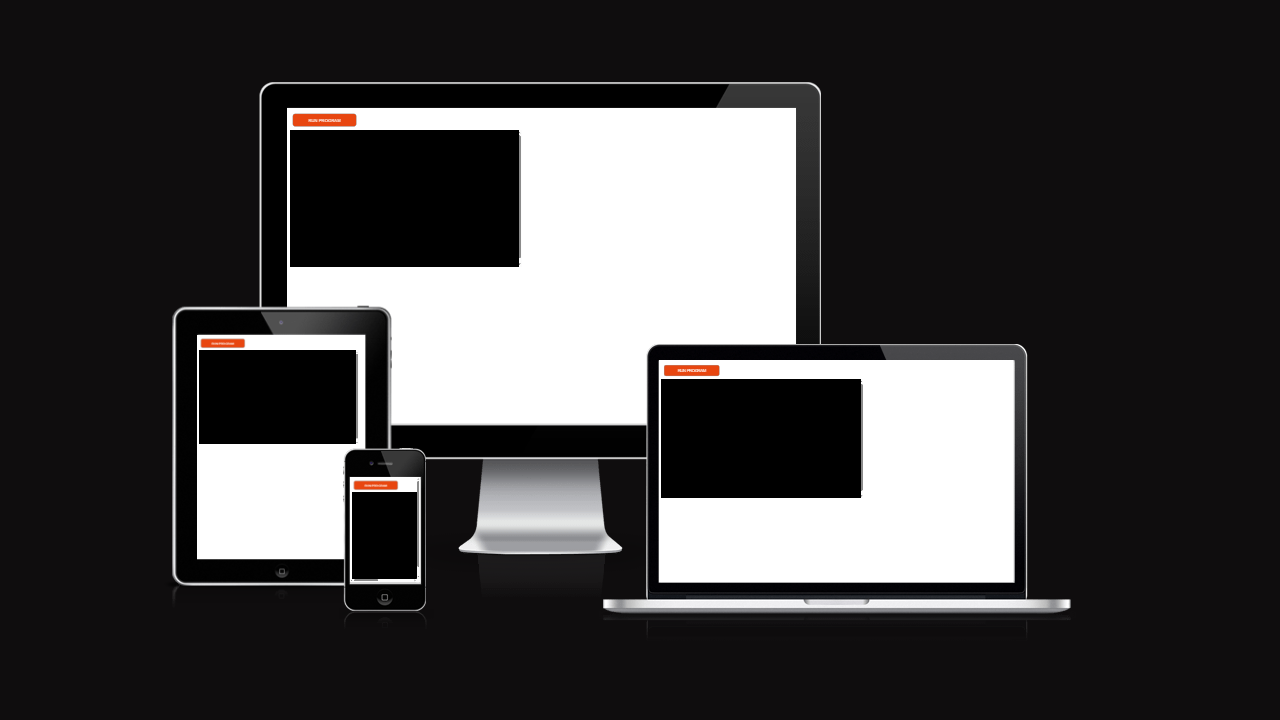
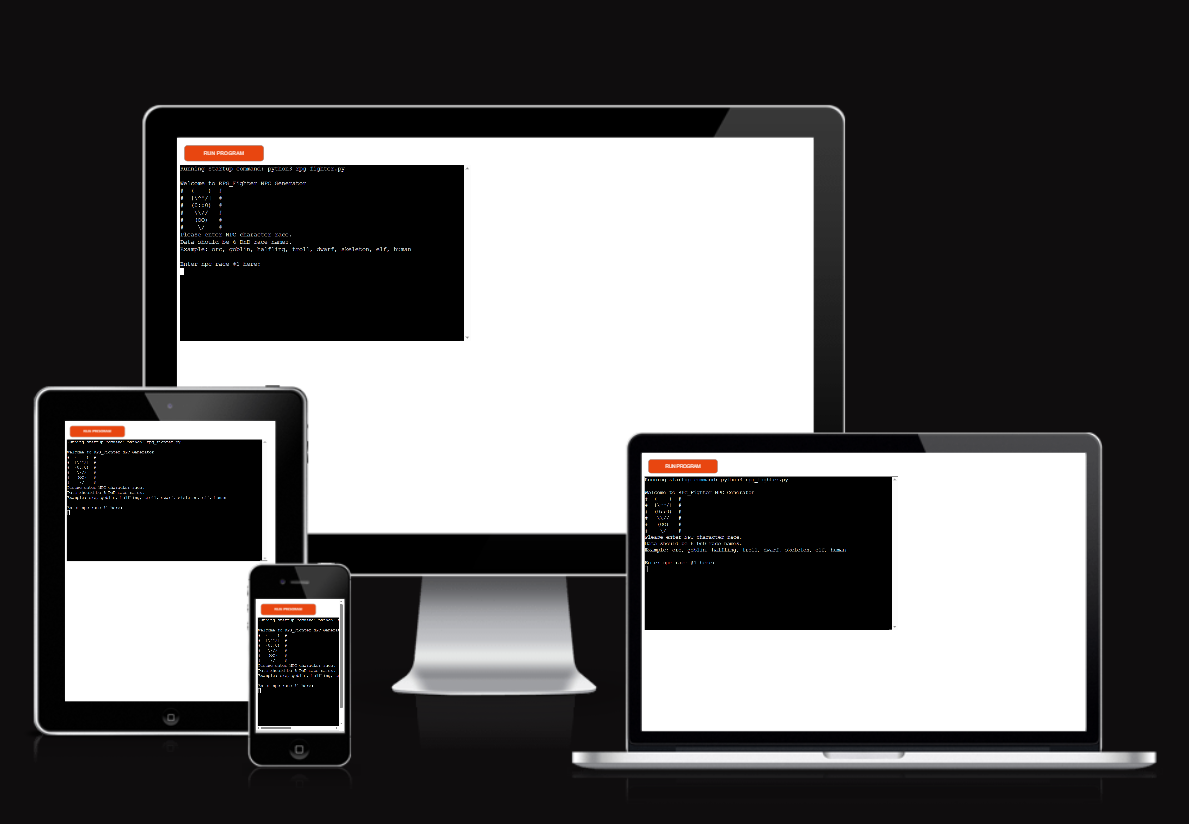
Replace mockup image

Changed region(s): [[0.0, 0.0917, 0.9958, 0.9472], [0.2801, 0.275, 0.3112, 0.3056]]

diff --git a/README.md b/README.md
@@ -1,6 +1,6 @@
 # RPG FIGHTER
 
-![Device Mockup Image](https://github.com/tadhgnolan/RPG_Fighter/blob/main/documentation/images/Device_Mock_Up.PNG)
+![Device Mockup Image](https://github.com/tadhgnolan/RPG_Fighter/blob/main/documentation/images/mockup.png)
 
 # Table of Contents
 1. [Intro](#intro)
